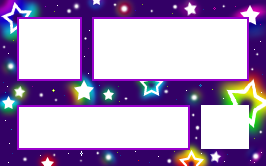
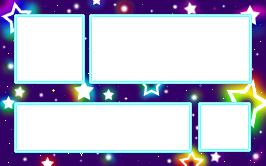
Update atrium assets and improve profile handling
fix card not showing sona the first time, generate the body on the profile pic, adjust UI in lobby, reorder card fields, delete led animation, start to add instrument body wsgs

Changed region(s): [[0.0301, 0.0602, 0.9624, 0.512], [0.0301, 0.6024, 0.9624, 0.9337]]

diff --git a/main/modes/games/atrium/atrium.c b/main/modes/games/atrium/atrium.c
@@ -40,7 +40,7 @@
 static const cnfsFileIdx_t sonaBodies[] = {
     BODY_1_WSG, BODY_2_WSG, DAISY_WSG, FALLOUT_WSG, HANDSOME_WSG, KIRBY_WSG, LINK_WSG,   MARIO_WSG, PACMAN_WSG,
     PEACH_WSG,  RAYMAN_WSG, SANIC_WSG, SORA_WSG,    STAFF_WSG,    STEVE_WSG, STEVEN_WSG, WALDO_WSG, ZELDA_WSG,
-
+    BASS_0_WSG, BASS_1_WSG,  BASS_2_WSG,  
 };
 
 static const cnfsFileIdx_t uiImages[] = {
@@ -101,13 +101,13 @@ static const char* const fact2[] = {
 };
 
 static const char* const preambles[] = {
-    "Fave Sandwich: ",
+    "My Sandwich: ",
     "I am a: ",
     "Fave place: ",
 };
 
 static const char* const editPromptText[] = {
-    "Choose Card", "Choose Identity", "Choose Location", "Pick Sandwich", "Save Profile", "Saved!",
+    "Choose Card", "Pick Sandwich", "Choose Identity", "Choose Location", "Save Profile", "Saved!",
 };
 
 // Trophy Case
@@ -145,7 +145,7 @@ const trophyData_t atriumTrophies[] = {
 
     {
         .title       = "Join the Big Yellows",
-        .description = "Yellow Team is the best team",
+        .description = "Big Ego. Bigger Score",
         .image       = TEAMYELLOW_WSG,
         .type        = TROPHY_TYPE_TRIGGER,
         .difficulty  = TROPHY_DIFF_EASY,
@@ -521,6 +521,7 @@ static void atriumEnterMode(void)
         atr->created = 0;
         int team     = rand() % 3;
         writeNamespaceNvs32(ATRIUM_PROFILE_NVS_NAMESPACE, TEAMKEY, team);
+        atr->loadedProfs = false;
         atr->state = ATR_EDIT_PROFILE; // go to profile edit if no profile yet
     }
     else
@@ -774,6 +775,7 @@ static void editProfile(buttonEvt_t* evt, uint64_t elapsedUs)
     if (atr->loadedProfs == false)
     {
         atr->loadedProfile = loadProfileFromNVS();
+        generateSwadgesonaImage(&atr->loadedProfile.swsn,true);
         atr->loadedProfs   = true;
     }
 
@@ -979,10 +981,14 @@ static void drawLobbies(buttonEvt_t* evt, uint64_t elapsedUs)
         
     
         
-        ESP_LOGD(ATR_TAG, "Selected arrow: %" PRId8, atr->selectedArrow);
+        ESP_LOGI(ATR_TAG, "Selected arrow: %" PRId8, atr->selectedArrow);
         drawLobbyArrows(atr->selectedArrow);
         loadProfiles(SONA_PER, atr->page);
         drawSonas(atr->page, elapsedUs);
+        drawWsgSimpleHalf(&atr->uiElements[2], 10, 10);
+        drawWsgSimpleHalf(&atr->uiElements[4], 10, 30);
+        drawText(&atr->fonts[0], c000, "Select", 30, 11);
+        drawText(&atr->fonts[0], c000, "Back", 30, 31);
     }
 }
 
@@ -1211,6 +1217,7 @@ static void drawCard(userProfile_t profile, bool local, uint64_t elapsedUs)
 
     drawWsgSimple(&atr->backgroundImages[0], 0, 0);
     drawWsgSimple(&atr->cards[profile.cardSelect], 7, 7 + 12); // draw the card
+    generateSwadgesonaImage(&profile.swsn, true);
     drawWsgSimple(&profile.swsn.image, SONALOC_X, SONALOC_Y);  // draw the sona image
 
     nameData_t username;
@@ -1265,19 +1272,19 @@ void drawEditSelection(buttonEvt_t* evt, int yloc)
         case 1:
         {
             drawWsg(&atr->uiElements[17], 90 - CARDTEXTPAD, 55, false, false, 270); // fact0
-            drawText(&atr->fonts[0], c000, editPromptText[1], text_xloc+1, text_yloc);
+            drawText(&atr->fonts[0], c000, editPromptText[1], text_xloc+7, text_yloc);
             break;
         }
         case 2:
         {
             drawWsg(&atr->uiElements[17], 90 - CARDTEXTPAD, 68, false, false, 270); // fact1
-            drawText(&atr->fonts[0], c000, editPromptText[2], text_xloc-1, text_yloc);
+            drawText(&atr->fonts[0], c000, editPromptText[2], text_xloc+1, text_yloc);
             break;
         }
         case 3:
         {
             drawWsg(&atr->uiElements[17], 90 - CARDTEXTPAD, 81, false, false, 270); // fact2
-            drawText(&atr->fonts[0], c000, editPromptText[3], text_xloc+7, text_yloc);
+            drawText(&atr->fonts[0], c000, editPromptText[3], text_xloc-1, text_yloc);
             break;
         }
         case 4:
@@ -1502,9 +1509,8 @@ userProfile_t loadProfileFromNVS(void)
 
         team = esp_random() % 3; // assign random team 0,1,2
         ESP_LOGI(ATR_TAG, "team rng is %" PRId8, team);
-
+        loadSPSona(&loadedProfile.swsn.core); // load the sona image from swadgepass data
         loadedProfile.team = team;
-       
         ESP_LOGI(ATR_TAG, "assigned team is %" PRId8, loadedProfile.team);
 
         packProfileData(&loadedProfile);
@@ -1536,7 +1542,7 @@ userProfile_t loadProfileFromNVS(void)
 
     ESP_LOGI(ATR_TAG, "Generating swadgesona image");
 
-    generateSwadgesonaImage(&loadedProfile.swsn, false);
+    generateSwadgesonaImage(&loadedProfile.swsn, true);
 
     ESP_LOGI(ATR_TAG,
              "Profile loaded from NVS: packedProfile=%" PRId32 ", numPasses=%" PRId8 ", points=%" PRId32
@@ -1659,22 +1665,8 @@ void unpackProfileData(userProfile_t* profile)
 }
 
 static void atrSetLeds(int team, uint64_t elapsedUs)
-{//TODO: test this on a pulse swadge
-    atr->animTimer += elapsedUs;
-    if (atr->animTimer >= ANIM_TIMER_MS*20 && atr->ledChase <=  CONFIG_NUM_LEDS)
-    {
-        atr->animTimer = 0;
-        atr->ledChase++;
-        atrClearLeds();
-    }
-    if (atr->ledChase > CONFIG_NUM_LEDS)
-    {
-        atr->ledChase = 0;
-        atrClearLeds();
-    }
-    ESP_LOGI(ATR_TAG, "Setting LEDs for team %" PRId8 " with ledChase %" PRId8 "", team, atr->ledChase);
-
-    switch(team){
+{
+  switch(team){
         case 0: // red
             for (uint8_t i = 0; i < CONFIG_NUM_LEDS; i++)
             {
@@ -1716,8 +1708,8 @@ static void atrSetLeds(int team, uint64_t elapsedUs)
             }
             break;
     }
-    //LED chase
-    setLeds(atr->leds, atr->ledChase);
+    
+    setLeds(atr->leds, CONFIG_NUM_LEDS);
     
     
 }
